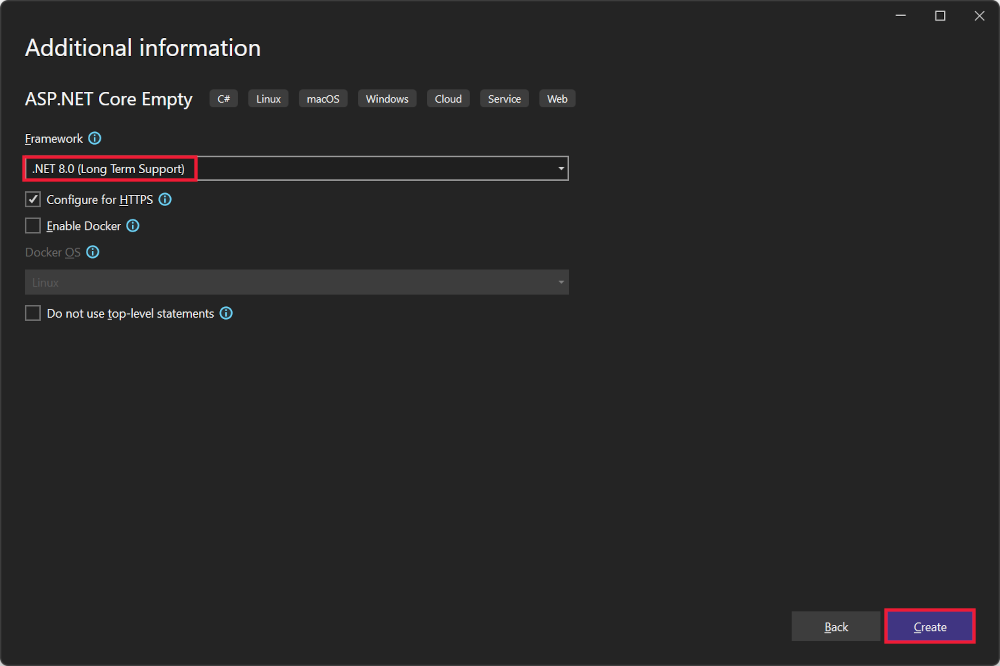
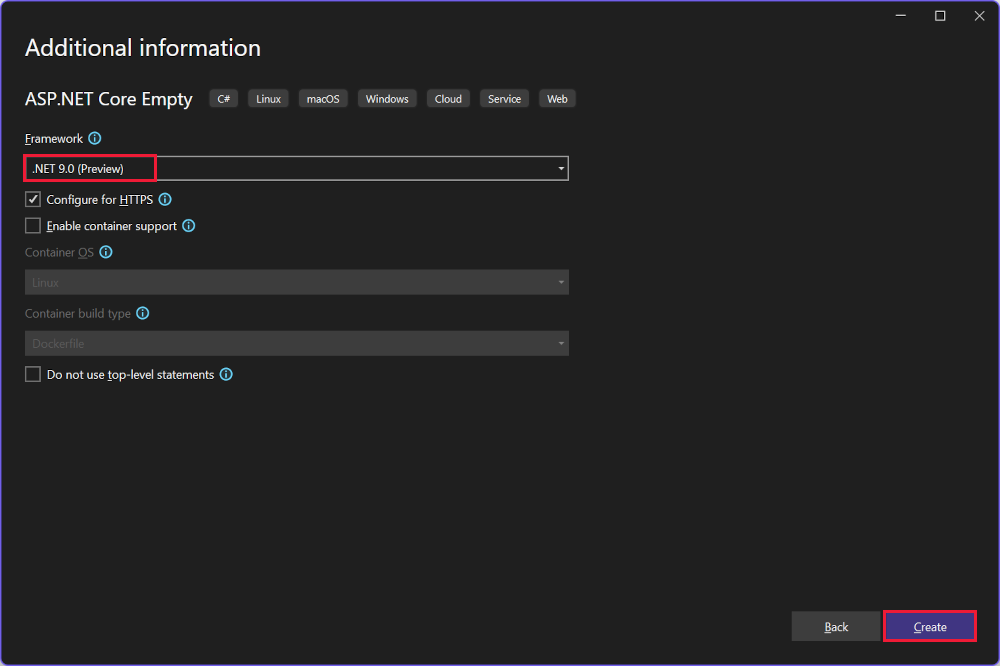
v9 Update: Min Web API Tutorial

diff --git a/aspnetcore/tutorials/min-web-api.md b/aspnetcore/tutorials/min-web-api.md
@@ -3,7 +3,7 @@ title: "Tutorial: Create a minimal API with ASP.NET Core"
 author: wadepickett
 description: Learn how to build a minimal API with ASP.NET Core.
 ms.author: wpickett
-ms.date: 06/25/2024
+ms.date: 06/26/2024
 ms.custom: engagement-fy24
 monikerRange: '>= aspnetcore-6.0'
 uid: tutorials/min-web-api
@@ -45,10 +45,6 @@ This tutorial creates the following API:
 
 [!INCLUDE[](~/includes/net-prereqs-vsc-9.0.md)]
 
-# [Visual Studio for Mac](#tab/visual-studio-mac)
-
-[!INCLUDE[](~/includes/net-prereqs-mac-8.0.md)]
-
 ---
 
 ## Create an API project
@@ -60,15 +56,15 @@ This tutorial creates the following API:
   * Enter `Empty` in the **Search for templates** search box.
   * Select the **ASP.NET Core Empty** template and select **Next**.
 
-  ![Visual Studio Create a new project](~/tutorials/min-web-api/_static/9.x/create-new-project-empty-vs17.8.0.png)
+  ![Visual Studio Create a new project](~/tutorials/min-web-api/_static/9.x/create-new-project-empty-vs17.11.0.png)
 
 * Name the project *TodoApi* and select **Next**.
 * In the **Additional information** dialog:
-  * Select **.NET 8.0 (Long Term Support)**
+  * Select **.NET 9.0 (Preview)**
   * Uncheck **Do not use top-level statements**
   * Select **Create**
 
-  ![Additional information](~/tutorials/min-web-api/_static/9.x/add-info-vs17.9.0.png)
+  ![Additional information](~/tutorials/min-web-api/_static/9.x/add-info-vs17.11.0.png)
 
 # [Visual Studio Code](#tab/visual-studio-code)
 
@@ -86,29 +82,6 @@ This tutorial creates the following API:
 * When a dialog box asks if you want to add required assets to the project, select **Yes**.
 
   The preceding commands create a new web minimal API project and open it in Visual Studio Code.
-
-# [Visual Studio for Mac](#tab/visual-studio-mac)
-
-* In Visual Studio for Mac 2022, select **File** > **New Project...**.
-
-* In the **Choose a template for your new project** dialog:
-  * Select **Web and Console** > **App** > **Empty**
-  * Select **Continue**
-
-  ![Visual Studio for Mac Create a new project](~/tutorials/min-web-api/_static/empty-vsmac-2022.png)
-
-* Make the following selections:
-  * **Target framework:** .NET 8.0
-  * **Configure for HTTPS**: Check
-  * **Do not use top-level statements**: Uncheck
-  * Select **Continue**
-
-  ![Additional information](~/tutorials/min-web-api/_static/add-info8-vsmac-2022.png)
-
-* Enter the following:
-  * **Project name:** TodoApi
-  * **Solution name:** TodoApi
-  * Select **Create**
 
 ---
 
@@ -151,14 +124,6 @@ Close the browser window.
 
 In Visual Studio Code, from the *Run* menu, select *Stop Debugging* or press <kbd>Shift</kbd>+<kbd>F5</kbd> to stop the app.
 
-# [Visual Studio for Mac](#tab/visual-studio-mac)
-
-Select **Debug** > **Start Debugging** to launch the app. Visual Studio for Mac launches a browser and navigates to `https://localhost:<port>`, where `<port>` is a randomly chosen port number.
-
-`Hello World!` is displayed in the browser. The `Program.cs` file contains a minimal but complete app.
-
-Close the browser window.
-
 ---
 
 ## Add NuGet packages
@@ -169,6 +134,7 @@ NuGet packages must be added to support the database and diagnostics used in thi
 
 * From the **Tools** menu, select **NuGet Package Manager > Manage NuGet Packages for Solution**.
 * Select the **Browse** tab.
+* Select **Include Prelease**.
 * Enter **Microsoft.EntityFrameworkCore.InMemory** in the search box, and then select `Microsoft.EntityFrameworkCore.InMemory`.
 * Select the **Project** checkbox in the right pane and then select **Install**.
 * Follow the preceding instructions to add the `Microsoft.AspNetCore.Diagnostics.EntityFrameworkCore` package.
@@ -178,19 +144,9 @@ NuGet packages must be added to support the database and diagnostics used in thi
 * Run the following commands:
 
   ```dotnetcli
-  dotnet add package Microsoft.EntityFrameworkCore.InMemory
-  dotnet add package Microsoft.AspNetCore.Diagnostics.EntityFrameworkCore
+  dotnet add package Microsoft.EntityFrameworkCore.InMemory --prerelease
+  dotnet add package Microsoft.AspNetCore.Diagnostics.EntityFrameworkCore --prerelease
   ```
-
-# [Visual Studio for Mac](#tab/visual-studio-mac)
-
-* In the Visual Studio for Mac 2022 toolbar, select **Project** > **Manage NuGet Packages...**.
-* In the search box, enter **Microsoft.EntityFrameworkCore.InMemory**.
-* In the results window, check `Microsoft.EntityFrameworkCore.InMemory`.
-* Select **Add Package**.
-* In the **Select Projects** window, select **Ok**.
-* In the **License Agreement** window, select **Agree**.
-* Follow the preceding instructions to add the `Microsoft.AspNetCore.Diagnostics.EntityFrameworkCore` package.
 
 ---
 
@@ -224,7 +180,7 @@ The DI container provides access to the database context and other services.
 
 This tutorial uses [Endpoints Explorer and .http files](xref:test/http-files#use-endpoints-explorer) to test the API.
 
-# [Visual Studio Code / Visual Studio for Mac](#tab/visual-studio-code+visual-studio-mac)
+# [Visual Studio Code](#tab/visual-studio-code)
 
 ## Create API testing UI with Swagger
 
@@ -341,7 +297,7 @@ The POST endpoint will be used to add data to the app.
 
   ![.http file window with response from the POST request.](~/tutorials/min-web-api/_static/9.x/http-file-window-with-response-vs17.8.0.png)
 
-# [Visual Studio Code / Visual Studio for Mac](#tab/visual-studio-code+visual-studio-mac)
+# [Visual Studio Code](#tab/visual-studio-code)
 
 * With the app still running, in the browser, navigate to `https://localhost:<port>/swagger` to display the API testing page generated by Swagger.
 
@@ -443,7 +399,7 @@ Test the app by calling the `GET` endpoints from a browser or by using **Endpoin
   }
   ```
   
-# [Visual Studio Code / Visual Studio for Mac](#tab/visual-studio-code+visual-studio-mac)
+# [Visual Studio Code](#tab/visual-studio-code)
 
 Test the app by calling the endpoints from a browser or Swagger.
 
@@ -537,7 +493,7 @@ Update the to-do item that has `Id = 1` and set its name to `"feed fish"`.
 
   The PUT request is sent to the app and the response is displayed in the **Response** pane. The response body is empty, and the status code is 204.
   
-# [Visual Studio Code / Visual Studio for Mac](#tab/visual-studio-code+visual-studio-mac)
+# [Visual Studio Code](#tab/visual-studio-code)
 
 Use Swagger to send a PUT request:
 
@@ -582,7 +538,7 @@ The sample app implements a single DELETE endpoint using `MapDelete`:
 
   The DELETE request is sent to the app and the response is displayed in the **Response** pane. The response body is empty, and the status code is 204.
   
-# [Visual Studio Code / Visual Studio for Mac](#tab/visual-studio-code+visual-studio-mac)
+# [Visual Studio Code](#tab/visual-studio-code)
 
 Use Swagger to send a DELETE request:
 
@@ -603,7 +559,7 @@ Replace the contents of `Program.cs` with the following code:
 
 :::code language="csharp" source="~/tutorials/min-web-api/samples/9.x/todoGroup/Program.cs" id="snippet_all":::
 
-# [Visual Studio Code / Visual Studio for Mac](#tab/visual-studio-code+visual-studio-mac)
+# [Visual Studio Code](#tab/visual-studio-code)
 
 :::code language="csharp" source="~/tutorials/min-web-api/samples/9.x/todoGroup_SwaggerVersion/Program.cs" id="snippet_all":::
 
@@ -627,7 +583,7 @@ The `Map<HttpVerb>` methods can call route handler methods instead of using lamb
 
 :::code language="csharp" source="~/tutorials/min-web-api/samples/9.x/todoTypedResults/Program.cs" id="snippet_all":::
 
-# [Visual Studio Code / Visual Studio for Mac](#tab/visual-studio-code+visual-studio-mac)
+# [Visual Studio Code](#tab/visual-studio-code)
 
 :::code language="csharp" source="~/tutorials/min-web-api/samples/9.x/todoTypedResults_SwaggerVersion/Program.cs" id="snippet_all":::
 
@@ -692,7 +648,7 @@ Replace the contents of the `Program.cs` file with the following code to use thi
 
 :::code language="csharp" source="~/tutorials/min-web-api/samples/9.x/todoDTO/Program.cs" id="snippet_all":::
 
-# [Visual Studio Code / Visual Studio for Mac](#tab/visual-studio-code+visual-studio-mac)
+# [Visual Studio Code](#tab/visual-studio-code)
 
 :::code language="csharp" source="~/tutorials/min-web-api/samples/9.x/todoDTO_SwaggerVersion/Program.cs" id="snippet_all":::
 
